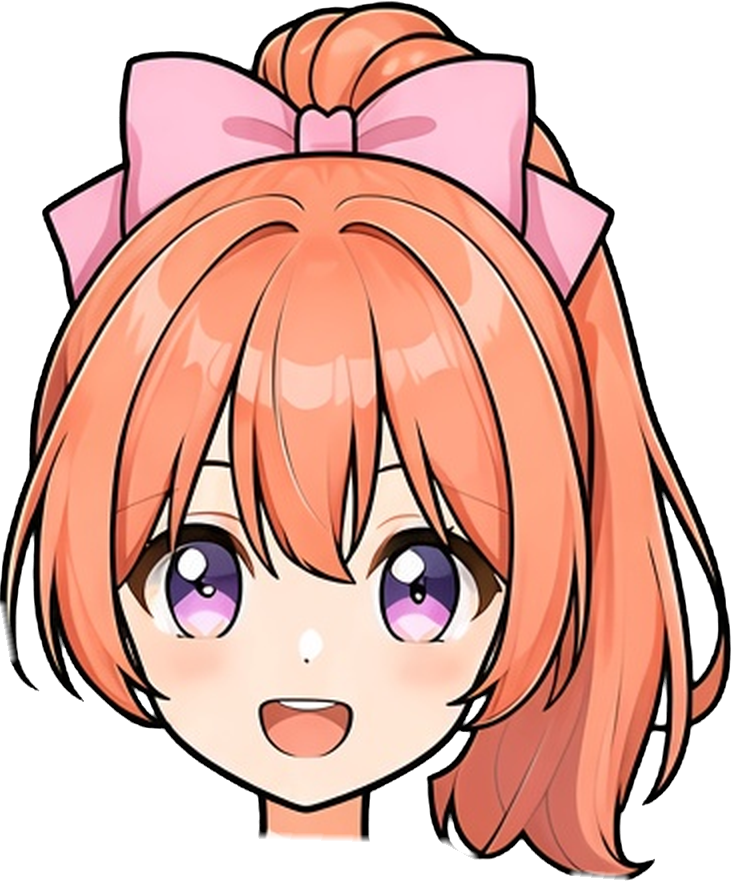
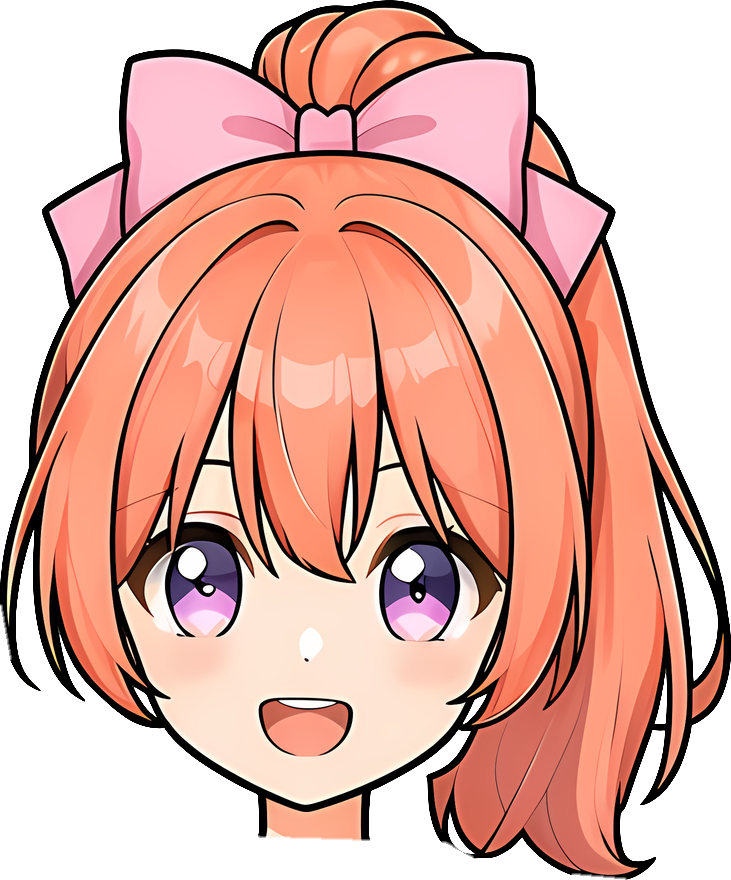
v4c: 4단계 리그·옷 레이어(esr x4), 5단계 1차 400% 크롭

diff --git a/public/v4c-demo/src/build4.py b/public/v4c-demo/src/build4.py
@@ -1,0 +1,55 @@
+# 4단계: Real-ESRGAN 4x(anime_6B) → 0.5배 LANCZOS(=2배) → 초록 키·스필 제거 → 부위·옷 레이어 → skeleton.json(v4b 형식)
+# 지우기·마스크·처리값만 사용. 옷 알파는 720 원본에서 만든 마스크(outfit27.py)를 2배 BILINEAR.
+import json,numpy as np
+from PIL import Image,ImageDraw
+from scipy.ndimage import binary_dilation as bd, distance_transform_edt
+RAMP=3;S=2;W,H=1440,2560;R='/workspace/siha-v4/rebuild/';P='/workspace/ssb/public/v4c-demo/'
+def key(f):
+    a=np.asarray(Image.open(f).convert('RGB')).astype(float);r,g,b=a[...,0],a[...,1],a[...,2]
+    al=np.clip(1-(g-np.maximum(r,b)-20)/60,0,1);rgb=a.copy();rgb[...,1]=np.minimum(g,np.maximum(r,b));return rgb,al
+rgb,alpha=key(R+'x4/body_F_c27_x2.png')
+bg=alpha<0.5;lum=np.asarray(Image.open(R+'x4/body_F_c27_x2.png').convert('RGB')).min(2)
+rim=bg.copy()
+for _ in range(6): rim=rim|(bd(rim)&(lum>150))
+alpha[rim&~bg]=0
+e=(bd(rim,iterations=2)&~rim)&(rgb.max(2)<140);mm=rgb.min(2)[e]*0.6
+for c in range(3): rgb[...,c][e]=mm
+def poly(pts):
+    m=Image.new('L',(W,H),0);ImageDraw.Draw(m).polygon([(x*S,y*S) for x,y in pts],fill=255);return np.asarray(m)>0
+armL=poly([(0,330),(190,330),(198,400),(262,440),(272,455),(262,500),(258,560),(240,620),(0,620)])
+armR=poly([(418,470),(440,462),(530,470),(720,470),(720,900),(560,900),(460,800),(412,650),(416,560),(416,520)])
+head=poly([(200,0),(720,0),(720,470),(530,470),(440,462),(418,450),(262,445),(205,385),(195,330)])&~armL
+rest=~(armL|armR|head);d14=bd(rest,iterations=14)
+bodyM=rest|(d14&(armL|armR|head))
+ramp=lambda m:np.clip(distance_transform_edt(m)/RAMP,0,1)
+cL,cR,cH=ramp(armL|bg),ramp(armR|bg),ramp(head|bg)
+SL={}
+def save(name,rgb,A,bone,item=None):
+    A=(A*255).round().astype(np.uint8);ys,xs=np.nonzero(A>0)
+    if len(xs)==0: return
+    x0,y0,x1,y1=xs.min(),ys.min(),xs.max()+1,ys.max()+1
+    Image.fromarray(np.dstack([rgb.clip(0,255).astype(np.uint8),A])[y0:y1,x0:x1],'RGBA').save(P+f'parts/{name}.png')
+    s=dict(name=name,bone=bone,path=f'parts/{name}.png',x=int(x0),y=int(y0),width=int(x1-x0),height=int(y1-y0))
+    if item: s['item']=item
+    SL[name]=s
+save('body',rgb,alpha*bodyM,'root');save('arm_R',rgb,alpha*armR*cR,'arm_R');save('arm_L',rgb,alpha*armL*cL,'arm_L');save('head',rgb,alpha*head*cH,'head')
+OUT={'dress':('dress_c27b','d27b2'),'top':('sailor_c27e','saile'),'crop':('crop_c27e','crope')}
+for it,(src,mk) in OUT.items():
+    orgb,_=key(R+f'x4/{src}_x2.png')
+    m=np.asarray(Image.open(P+f'src/outfit/o_{mk}.png').getchannel('A').resize((W,H),Image.BILINEAR)).astype(float)/255
+    save(f'item_{it}_body',orgb,m*bodyM,'root',it);save(f'item_{it}_arm_R',orgb,m*armR*cR,'arm_R',it)
+    save(f'item_{it}_arm_L',orgb,m*armL*cL,'arm_L',it);save(f'item_{it}_neck',orgb,m*head*cH,'head',it)
+# 소품: 단독 생성 그림을 키잉한 레이어를 크기 조절·이동만 해서 배치
+def prop(name,fn,cx,top,w,bone,item):
+    im=Image.open(P+f'src/outfit/{fn}');h=round(im.height*w/im.width);im=im.resize((w,h),Image.LANCZOS)
+    x0=int(cx-w/2);im.save(P+f'parts/{name}.png');SL[name]=dict(name=name,bone=bone,path=f'parts/{name}.png',x=x0,y=int(top),width=w,height=h,item=item)
+prop('item_tiara','o_tiara.png',350*S,112*S,150*S,'head','tiara')
+prop('item_wand','o_wand.png',600*S,640*S,80*S,'hand_R','wand')
+order=['body','arm_R','arm_L','item_dress_body','item_top_body','item_crop_body','item_dress_arm_R','item_top_arm_R','item_crop_arm_R','item_wand','item_dress_arm_L','item_top_arm_L','item_crop_arm_L','head','item_dress_neck','item_top_neck','item_crop_neck','item_tiara']
+sk={"skeleton":{"width":W,"height":H,"scale":2,"stagePad":160,"jointOverlap":24,"note":"v4c: c27(GenerateImage) → Real-ESRGAN anime_6B 4배 → 0.5배 LANCZOS(2배) → 초록 키·스필 제거 → 몸·머리·왼팔·오른팔 4영역(몸은 팔·머리 아래 14px 확장, 자른 면 8px 알파 램프). 옷(원피스 dress_c27b, 세일러 sailor_c27e, 크롭 crop_c27e)은 c27 참조로 생성한 그림에서 옷 영역만 마스크(outfit27.py) → 같은 4영역으로 나눠 해당 뼈에 붙임. 티아라·요술봉은 단독 생성 그림 키잉 후 크기 조절·이동만. 덧칠 없음."},
+ "bones":[{"name":"root","rest":{"x":720,"y":1280}},{"name":"chest","parent":"root","rest":{"x":680,"y":960}},{"name":"head","parent":"chest","rest":{"x":680,"y":890}},{"name":"arm_L","parent":"chest","rest":{"x":480,"y":960}},{"name":"arm_R","parent":"chest","rest":{"x":860,"y":980}},{"name":"hand_L","parent":"arm_L","rest":{"x":250,"y":620}},{"name":"hand_R","parent":"arm_R","rest":{"x":1080,"y":1540}}],
+ "slots":[SL[n] for n in order if n in SL],
+ "items":[{"id":"dress","label":"원피스","excl":["top","crop"]},{"id":"top","label":"세일러","excl":["dress","crop"]},{"id":"crop","label":"크롭 상의","excl":["top","dress"]},{"id":"wand","label":"요술봉","excl":[]},{"id":"tiara","label":"티아라","excl":[]}],
+ "animations":{"breathe":{"period":4.2,"y":[[0,0],[2.1,-3],[4.2,0]]},"wave":{"bone":"arm_L","period":1.6,"repeat":2,"angle":[[0,0],[0.4,3],[0.8,-1.5],[1.2,3],[1.6,0]],"changeBox":[0,500,700,1300]}}}
+json.dump(sk,open(P+'skeleton.json','w'),ensure_ascii=False,indent=0)
+print(len(sk['slots']),[s['name'] for s in sk['slots']])

diff --git a/public/v4c-demo/src/esr.py b/public/v4c-demo/src/esr.py
@@ -1,0 +1,17 @@
+# 4단계: Real-ESRGAN x4 (anime_6B) → 0.5배 LANCZOS 다운스케일 = 2배 원본
+import sys,torch,numpy as np
+from PIL import Image
+from spandrel import ModelLoader
+m=ModelLoader().load_from_file('/workspace/esr/RealESRGAN_x4plus_anime_6B.pth').model.eval()
+torch.set_num_threads(8)
+for f in sys.argv[1:]:
+    im=Image.open(f).convert('RGB');a=torch.from_numpy(np.asarray(im)).permute(2,0,1)[None].float()/255
+    T=256;P=16;_,_,H,W=a.shape;o=torch.zeros(1,3,H*4,W*4)
+    with torch.no_grad():
+        for y in range(0,H,T):
+            for x in range(0,W,T):
+                y0,x0=max(0,y-P),max(0,x-P);y1,x1=min(H,y+T+P),min(W,x+T+P)
+                r=m(a[:,:,y0:y1,x0:x1]).clamp(0,1)
+                o[:,:,y*4:min(H,y+T)*4,x*4:min(W,x+T)*4]=r[:,:,(y-y0)*4:(y-y0+min(H,y+T)-y)*4,(x-x0)*4:(x-x0+min(W,x+T)-x)*4]
+    up=Image.fromarray((o[0].permute(1,2,0).numpy()*255).round().astype(np.uint8))
+    up.resize((W*2,H*2),Image.LANCZOS).save('x4/'+f.rsplit('/',1)[-1].rsplit('.',1)[0]+'_x2.png');print(f,flush=True)
